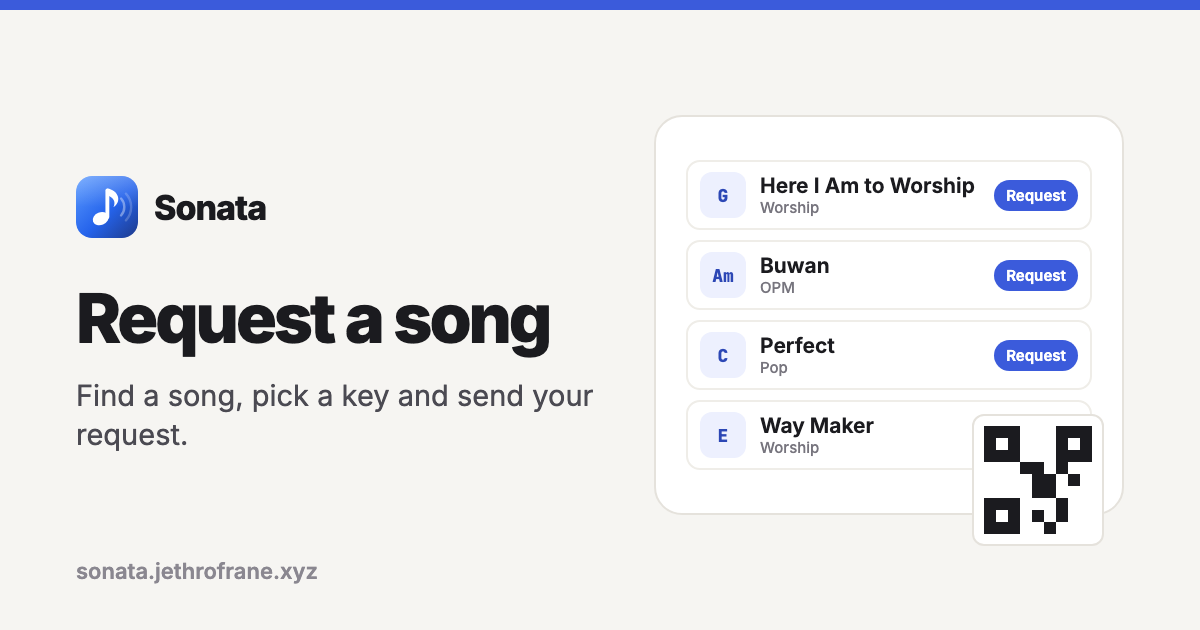
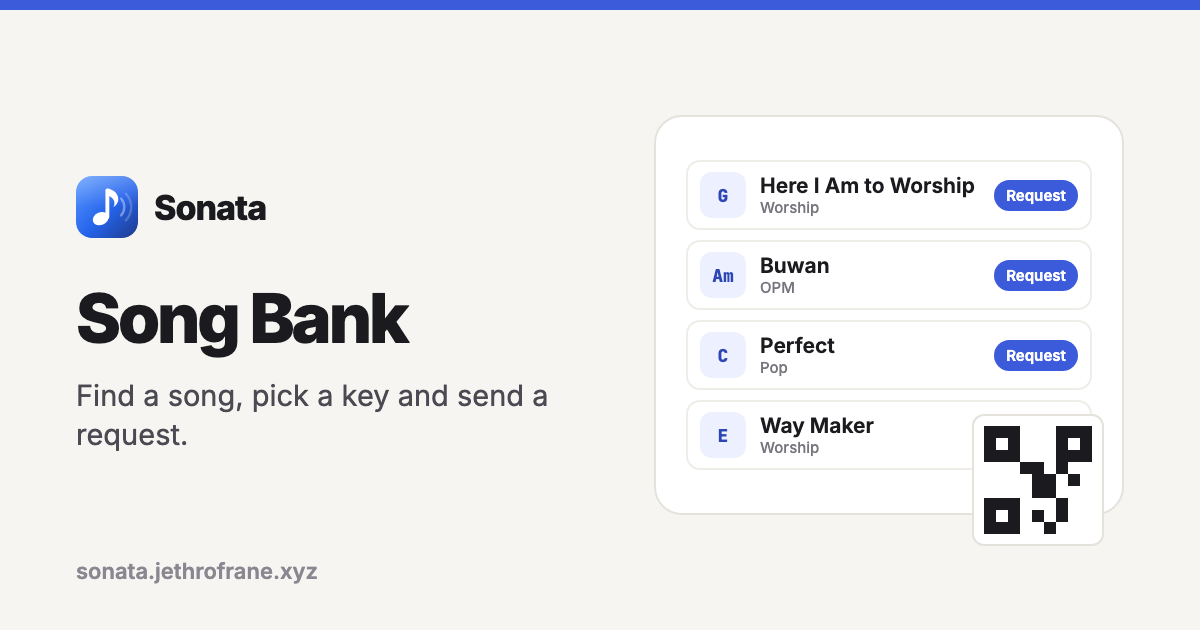
Song Bank: general wording (not busking-specific) across the app, previews and docs

Changed region(s): [[0.0617, 0.4524, 0.4625, 0.573], [0.4317, 0.6032, 0.4933, 0.6635]]

diff --git a/js/ui/bank.js b/js/ui/bank.js
@@ -1,5 +1,5 @@
 // @ts-check
-// Song bank. Musician side: choose songs, genres and how to be contacted, then publish one
+// Song Bank. Owner side: choose songs, genres and how to be contacted, then publish one
 // file to their own Google Drive. Listener side (/bank/<id>): search the list, read a chart in
 // any key, and send a request through the musician's chosen app. No Sonata server stores anything.
 import { $, esc, icon, openSheet, closeSheet, paintIcons, toast, copyText, download } from "./dom.js";
@@ -23,12 +23,12 @@ export const bankSongs = () => store.songs.filter((s) => s.inBank);
 /** Publish (or update) the public file in the musician's Drive. @returns {Promise<boolean>} */
 export async function publishBank() {
   const d = app.drive;
-  if (!d || !d.token) { toast(t("bankNeedsDrive", "Sign in with Google first. Your song list is shared from your own Drive."), "info", { ms: 6000, action: t("signIn", "Sign in"), onAction: () => d?.signIn() }); return false; }
-  if (!bankSongs().length) { toast(t("bankEmpty", "Add at least one song to your song bank first."), "error"); return false; }
+  if (!d || !d.token) { toast(t("bankNeedsDrive", "Sign in with Google first. Your Song Bank is shared from your own Drive."), "info", { ms: 6000, action: t("signIn", "Sign in"), onAction: () => d?.signIn() }); return false; }
+  if (!bankSongs().length) { toast(t("bankEmpty", "Add at least one song to your Song Bank first."), "error"); return false; }
   const file = buildBankFile(store.bank, store.songs, keyOf);
   const r = await d.publishBank(file, store.bank.fileId);
   if (!r.ok) {
-    toast(r.reason === "signin" ? t("reconnectText", "Your Google session expired. Reconnect to keep syncing.") : r.reason === "offline" ? t("offlineNote", "You're offline. Songs still save on this device.") : t("bankPublishFailed", "Couldn't publish the song list. Try again."), "error", { ms: 6000 });
+    toast(r.reason === "signin" ? t("reconnectText", "Your Google session expired. Reconnect to keep syncing.") : r.reason === "offline" ? t("offlineNote", "You're offline. Songs still save on this device.") : t("bankPublishFailed", "Couldn't publish your Song Bank. Try again."), "error", { ms: 6000 });
     return false;
   }
   store.bank = { ...store.bank, fileId: r.id, publishedAt: store.bank.publishedAt || new Date().toISOString(), updatedAt: new Date().toISOString() };
@@ -48,7 +48,7 @@ export function watchBank() {
   });
 }
 
-/** Song bank manager: profile, contacts, songs and sharing. */
+/** Song Bank manager: profile, contacts, songs and sharing. */
 export function openBankManager() {
   const all = store.songs.filter((s) => !s.readonly).slice().sort((a, b) => a.title.localeCompare(b.title, undefined, { sensitivity: "base", numeric: true }));
   const gl = genres(all.map((s) => ({ g: s.genre })));
@@ -67,15 +67,15 @@ export function openBankManager() {
           ${"share" in navigator ? `<button class="btn" type="button" id="bankShareNative">${icon("share")}${esc(t("shareNative", "Share…"))}</button>` : ""}
           <button class="btn" type="button" id="bankQr">${icon("qr")}${esc(t("qrPoster", "QR poster"))}</button>
           <button class="btn" type="button" id="bankPublish">${icon("refresh")}${esc(t("bankUpdate", "Update now"))}</button></div>`
-        : `<p class="card-text">${esc(t("bankIntro", "Share the songs you can play. People scan your QR, find a song, pick a key and send you a request. The list is one file in your own Google Drive; Sonata keeps no copy."))}</p>
-          <button class="btn primary wide" type="button" id="bankPublish">${icon("share")}${esc(t("bankPublishBtn", "Publish my song list ({n})", { n }))}</button>`}
+        : `<p class="card-text">${esc(t("bankIntro", "Share the songs you know or offer. Anyone can scan your QR, find a song, pick a key and send you a request. Your Song Bank is one file in your own Google Drive; Sonata keeps no copy."))}</p>
+          <button class="btn primary wide" type="button" id="bankPublish">${icon("share")}${esc(t("bankPublishBtn", "Publish my Song Bank ({n})", { n }))}</button>`}
       </div>
       <h3 class="group-title">${esc(t("bankProfile", "About you"))}</h3>
       <div class="field-row">
         <label class="field"><span>${esc(t("bankName", "Name or band"))}</span><input class="input" data-p="name" value="${esc(p.name)}" maxlength="80" placeholder="${esc(t("bankNamePh", "Your name"))}" autocomplete="name"></label>
-        <label class="field"><span>${esc(t("bankTitle", "List title"))}</span><input class="input" data-p="title" value="${esc(p.title)}" maxlength="80" placeholder="${esc(t("bankTitlePh", "Songs I can play tonight"))}"></label>
+        <label class="field"><span>${esc(t("bankTitle", "List title"))}</span><input class="input" data-p="title" value="${esc(p.title)}" maxlength="80" placeholder="${esc(t("bankTitlePh", "Songs I can play"))}"></label>
       </div>
-      <label class="field"><span>${esc(t("bankBio", "Short note"))}</span><textarea class="input" data-p="bio" rows="2" maxlength="400" placeholder="${esc(t("bankBioPh", "Acoustic covers, OPM and worship. Requests welcome!"))}">${esc(p.bio)}</textarea></label>
+      <label class="field"><span>${esc(t("bankBio", "Short note"))}</span><textarea class="input" data-p="bio" rows="2" maxlength="400" placeholder="${esc(t("bankBioPh", "OPM, pop and worship. Requests welcome!"))}">${esc(p.bio)}</textarea></label>
       <label class="switch-row"><span>${esc(t("bankCharts", "Let listeners see my charts"))}</span><input type="checkbox" class="toggle" data-p="charts"${p.charts ? " checked" : ""}></label>
       <h3 class="group-title">${esc(t("bankRequestsVia", "Send requests to"))}</h3>
       <p class="card-hint">${esc(t("bankContactsHint", "Fill in at least one. Requests open that app with the song already written."))}</p>
@@ -88,7 +88,7 @@ export function openBankManager() {
       ${p.fileId ? `<button class="btn ghost danger-text" type="button" id="bankUnpublish">${esc(t("bankStop", "Stop sharing"))}</button>` : ""}
     </div>`;
   };
-  const body = openSheet({ title: t("songBank", "Song bank"), wide: true, className: "bank-sheet", body: draw(), focus: false });
+  const body = openSheet({ title: t("songBank", "Song Bank"), wide: true, className: "bank-sheet", body: draw(), focus: false });
   const redraw = () => { body.innerHTML = draw(); paintIcons(body); };
   body.addEventListener("input", (e) => {
     const el = /** @type {HTMLInputElement} */ (e.target);
@@ -105,12 +105,12 @@ export function openBankManager() {
     const b = /** @type {HTMLElement|null} */ (/** @type {HTMLElement} */ (e.target).closest("button"));
     if (!b) return;
     if (b.id === "bankAll" || b.id === "bankNone") { const on = b.id === "bankAll"; for (const s of all) if (s.inBank !== on) store.update(s, { inBank: on }); redraw(); }
-    if (b.id === "bankPublish") { b.setAttribute("aria-busy", "true"); if (await publishBank()) { toast(t("bankPublished", "Song list is live"), "success"); redraw(); } else b.removeAttribute("aria-busy"); }
+    if (b.id === "bankPublish") { b.setAttribute("aria-busy", "true"); if (await publishBank()) { toast(t("bankPublished", "Your Song Bank is live"), "success"); redraw(); } else b.removeAttribute("aria-busy"); }
     if (b.id === "bankCopy") { if (await copyText(bankUrl(store.bank.fileId))) toast(t("linkCopied", "Link copied"), "success"); }
-    if (b.id === "bankShareNative") { try { await navigator.share({ title: store.bank.title || t("songBank", "Song bank"), text: t("bankShareText", "Request a song from my list:"), url: bankUrl(store.bank.fileId) }); } catch { /* cancelled */ } }
+    if (b.id === "bankShareNative") { try { await navigator.share({ title: store.bank.title || t("songBank", "Song Bank"), text: t("bankShareText", "Request a song from my list:"), url: bankUrl(store.bank.fileId) }); } catch { /* cancelled */ } }
     if (b.id === "bankQr") { b.setAttribute("aria-busy", "true"); try { await qrPoster(); } finally { b.removeAttribute("aria-busy"); } }
     if (b.id === "bankUnpublish") {
-      if (await app.drive?.unpublishBank(store.bank.fileId)) { store.bank = { ...store.bank, fileId: "", publishedAt: "" }; store.changed("settings"); toast(t("bankStopped", "Your song list is private again."), "info"); redraw(); }
+      if (await app.drive?.unpublishBank(store.bank.fileId)) { store.bank = { ...store.bank, fileId: "", publishedAt: "" }; store.changed("settings"); toast(t("bankStopped", "Your Song Bank is private again."), "info"); redraw(); }
       else toast(t("bankStopFailed", "Couldn't stop sharing. Check your connection and sign-in."), "error");
     }
   });
@@ -118,7 +118,7 @@ export function openBankManager() {
 
 function markDirty() { if (store.bank.fileId) { store.bankDirty = true; clearTimeout(republishTimer); republishTimer = setTimeout(() => { if (store.bankDirty) publishBank(); }, 15000); } }
 
-/** A printable QR poster for the tip jar or mic stand. */
+/** A printable QR poster (for a stand, a table, a church lobby or a classroom). */
 async function qrPoster() {
   const m = await loadQr();
   if (!m) return;
@@ -140,7 +140,7 @@ async function qrPoster() {
   g.fillText(t("posterSteps", "Scan · find a song · pick a key · send"), W / 2, y0 + size + 90);
   g.fillStyle = "#5f5d66"; g.font = "500 30px Inter, system-ui, sans-serif"; g.fillText(t("posterFoot", "{n} songs · made with Sonata", { n: bankSongs().length }), W / 2, y0 + size + 150);
   const blob = await new Promise((ok) => c.toBlob(ok, "image/png"));
-  if (blob) download("sonata-song-list-qr.png", /** @type {Blob} */ (blob));
+  if (blob) download("sonata-song-bank-qr.png", /** @type {Blob} */ (blob));
 }
 
 // ---------- Listener side ----------
@@ -153,7 +153,7 @@ const CACHE = (/** @type {string} */ id) => `sonata_bank_${id}`;
 export async function openBank(id) {
   if (view.id === id && view.data) { renderBank(); return; }
   Object.assign(view, { id, data: null, q: "", genre: "", picks: new Map(), error: "" });
-  if (!validBankId(id)) { view.error = t("bankBadLink", "This song list link is incomplete."); renderBank(); return; }
+  if (!validBankId(id)) { view.error = t("bankBadLink", "This Song Bank link is incomplete."); renderBank(); return; }
   try { const c = localStorage.getItem(CACHE(id)); if (c) view.data = parseBankFile(JSON.parse(c)); } catch { /* ignore */ }
   renderBank(true);
   try {
@@ -164,7 +164,7 @@ export async function openBank(id) {
     view.data = data;
     try { localStorage.setItem(CACHE(id), JSON.stringify(data)); } catch { /* full */ }
   } catch {
-    if (!view.data) view.error = navigator.onLine ? t("bankLoadFailed", "This song list isn't available. The musician may have stopped sharing it.") : t("bankOffline", "You're offline, and this song list hasn't been opened on this device before.");
+    if (!view.data) view.error = navigator.onLine ? t("bankLoadFailed", "This Song Bank isn't available. Its owner may have stopped sharing it.") : t("bankOffline", "You're offline, and this Song Bank hasn't been opened on this device before.");
   }
   if (view.id === id) renderBank();
 }
@@ -173,10 +173,10 @@ export async function openBank(id) {
 function renderBank(loading = false) {
   const host = $("bankBody");
   const d = view.data;
-  document.title = `${d?.title || t("songList", "Song list")} · Sonata`;
+  document.title = `${d?.title || t("songBankTitle", "Song Bank")} · Sonata`;
   if (!d) {
-    $("bankHeading").textContent = t("songList", "Song list");
-    host.innerHTML = loading ? `<p class="muted bank-loading">${esc(t("loading", "Loading…"))}</p>` : `<div class="empty"><div class="empty-art">${icon("music")}</div><h2>${esc(t("bankUnavailable", "Song list unavailable"))}</h2><p>${esc(view.error)}</p><div class="empty-actions"><button class="btn" type="button" data-bk="retry">${esc(t("tryAgain", "Try again"))}</button></div></div>`;
+    $("bankHeading").textContent = t("songBankTitle", "Song Bank");
+    host.innerHTML = loading ? `<p class="muted bank-loading">${esc(t("loading", "Loading…"))}</p>` : `<div class="empty"><div class="empty-art">${icon("music")}</div><h2>${esc(t("bankUnavailable", "Song Bank unavailable"))}</h2><p>${esc(view.error)}</p><div class="empty-actions"><button class="btn" type="button" data-bk="retry">${esc(t("tryAgain", "Try again"))}</button></div></div>`;
     paintIcons(host);
     return;
   }
@@ -195,7 +195,7 @@ function renderBank(loading = false) {
         <button type="button" class="row-main" data-bk="${s.b ? "view" : "pick"}"><span class="key-badge">${esc(s.k || "–")}</span><span class="row-text"><span class="row-title">${esc(s.t)}</span><span class="row-sub">${esc([s.a, s.g].filter(Boolean).join(" · "))}</span></span></button>
         <button type="button" class="btn small${picked ? " primary" : ""}" data-bk="pick" aria-pressed="${picked}">${picked ? icon("check") : icon("plus")}<span>${esc(picked ? t("picked", "Picked") : t("request", "Request"))}</span></button></div>`;
     }).join("") || `<p class="muted bank-none">${esc(t("noMatches", "No matches for \"{q}\"", { q: view.q || view.genre }))}</p>`}</div>
-    <p class="bank-foot">${esc(t("bankFoot", "Made with Sonata. Your request goes straight to the musician; Sonata doesn't see it."))} <a href="/songs">${esc(t("bankMakeOwn", "Make your own song list"))}</a></p>
+    <p class="bank-foot">${esc(t("bankFoot", "Made with Sonata. Your request goes straight to the owner of this Song Bank; Sonata doesn't see it."))} <a href="/songs">${esc(t("bankMakeOwn", "Make your own Song Bank"))}</a></p>
     <div class="bank-bar" ${view.picks.size ? "" : "hidden"}><span>${esc(t("pickedN", "{n} picked", { n: view.picks.size }))}</span><button type="button" class="btn primary" data-bk="send">${icon("send")}${esc(t("sendRequest", "Send request"))}</button></div>`;
   paintIcons(host);
   const input = /** @type {HTMLInputElement|null} */ (host.querySelector("#bankSearch"));
@@ -264,7 +264,7 @@ function requestSheet() {
         return `<li class="set-item"><span class="set-name">${esc(s.t)}</span><label class="sr-only" for="rk-${esc(id)}">${esc(t("key", "Key"))}</label><select class="select rq-key" id="rk-${esc(id)}" data-rk="${esc(id)}">${KEYS12.map((k) => { const v = pretty(k) + (minor ? "m" : ""); return `<option${v === key ? " selected" : ""}>${esc(v)}</option>`; }).join("")}</select>
         <button class="icon-btn small" type="button" data-drop="${esc(id)}" aria-label="${esc(t("remove", "Remove"))}">${icon("x")}</button></li>`; }).join("")}</ul>
       <label class="field"><span>${esc(t("yourName", "Your name (optional)"))}</span><input class="input" id="rqFrom" maxlength="60" autocomplete="given-name"></label>
-      <label class="field"><span>${esc(t("rqNote", "Note (optional)"))}</span><textarea class="input" id="rqNote" rows="2" maxlength="300" placeholder="${esc(t("rqNotePh", "Dedication, table number…"))}"></textarea></label>
+      <label class="field"><span>${esc(t("rqNote", "Note (optional)"))}</span><textarea class="input" id="rqNote" rows="2" maxlength="300" placeholder="${esc(t("rqNotePh", "Dedication, occasion, anything to add…"))}"></textarea></label>
       <p class="mini-label">${esc(t("sendWith", "Send with"))}</p>
       <div class="rq-targets">${targets.map((x) => `<button class="btn${targets[0] === x ? " primary" : ""}" type="button" data-go="${x.kind}">${esc(x.label)}</button>`).join("")}
         ${"share" in navigator ? `<button class="btn" type="button" data-go="share">${icon("share")}${esc(t("shareNative", "Share…"))}</button>` : ""}

diff --git a/js/ui/library.js b/js/ui/library.js
@@ -119,7 +119,7 @@ function songMenu(id) {
       <button type="button" class="menu-item" data-m="present">${icon("present")}<span>${esc(t("present", "Present"))}</span></button>
       <button type="button" class="menu-item" data-m="share">${icon("share")}<span>${esc(t("share", "Share"))}</span></button>
       <button type="button" class="menu-item" data-m="dup">${icon("duplicate")}<span>${esc(t("duplicate", "Duplicate"))}</span></button>
-      <button type="button" class="menu-item" data-m="bank">${icon("bank")}<span>${esc(s.inBank ? t("removeFromBank", "Remove from song bank") : t("addToBank", "Add to song bank"))}</span></button>
+      <button type="button" class="menu-item" data-m="bank">${icon("bank")}<span>${esc(s.inBank ? t("removeFromBank", "Remove from Song Bank") : t("addToBank", "Add to Song Bank"))}</span></button>
       <button type="button" class="menu-item danger" data-m="del">${icon("trash")}<span>${esc(t("delete", "Delete"))}</span></button>
     </div>`
   });
@@ -131,7 +131,7 @@ function songMenu(id) {
     if (m === "present") { store.exitSetlist(); store.open(id); app.openStage(); }
     if (m === "share") { store.open(id); openShare(); }
     if (m === "dup") { store.duplicate(s); app.show("editor"); }
-    if (m === "bank") { store.update(s, { inBank: !s.inBank }); renderLibrary(); toast(s.inBank ? t("addedToBank", "Added to your song bank") : t("removedFromBank", "Removed from your song bank"), "success"); }
+    if (m === "bank") { store.update(s, { inBank: !s.inBank }); renderLibrary(); toast(s.inBank ? t("addedToBank", "Added to your Song Bank") : t("removedFromBank", "Removed from your Song Bank"), "success"); }
     if (m === "del") deleteWithUndo([id]);
   });
 }
@@ -210,7 +210,7 @@ export function renderLibrary() {
   if (filter === "setlists") {
     const sets = store.setlists.filter((s) => !q || fold(s.title).includes(q));
     if (!store.setlists.length) {
-      list.innerHTML = empty(t("emptySetlistsTitle", "No setlists yet"), t("emptySetlistsText", "Group songs for Sunday or a gig, then play them in order on stage."), `<button class="btn primary" type="button" data-act="create-set">${icon("plus")}${esc(t("createSetlist", "Create a setlist"))}</button>`);
+      list.innerHTML = empty(t("emptySetlistsTitle", "No setlists yet"), t("emptySetlistsText", "Group songs for a service, a rehearsal or an event, then play them in order on stage."), `<button class="btn primary" type="button" data-act="create-set">${icon("plus")}${esc(t("createSetlist", "Create a setlist"))}</button>`);
       return;
     }
     list.innerHTML = sets.map((s) => {
@@ -254,10 +254,10 @@ export function renderLibrary() {
     </div>`;
     return;
   }
-  // Song bank: a card to manage and share it sits above its songs.
-  const bankCard = filter === "bank" ? `<div class="bank-card"><div><b>${esc(store.bank.fileId ? t("bankIsLive", "Your song list is live") : t("songBank", "Song bank"))}</b><p class="muted">${esc(store.bank.fileId ? t("bankLiveSub", "{n} songs · people scan your QR to request", { n: store.songs.filter((x) => x.inBank).length }) : t("bankPitch", "List the songs you can play. People scan your QR, pick a song and key, and send you a request."))}</p></div><button class="btn primary" type="button" data-act="bank">${icon(store.bank.fileId ? "share" : "bank")}${esc(store.bank.fileId ? t("manageShare", "Manage & share") : t("setUpBank", "Set up"))}</button></div>` : "";
+  // Song Bank: a card to manage and share it sits above its songs.
+  const bankCard = filter === "bank" ? `<div class="bank-card"><div><b>${esc(store.bank.fileId ? t("bankIsLive", "Your Song Bank is live") : t("songBank", "Song Bank"))}</b><p class="muted">${esc(store.bank.fileId ? t("bankLiveSub", "{n} songs · people scan your QR to request", { n: store.songs.filter((x) => x.inBank).length }) : t("bankPitch", "List the songs you know or offer. People scan your QR, pick a song and key, and send you a request."))}</p></div><button class="btn primary" type="button" data-act="bank">${icon(store.bank.fileId ? "share" : "bank")}${esc(store.bank.fileId ? t("manageShare", "Manage & share") : t("setUpBank", "Set up"))}</button></div>` : "";
   if (!songs.length) {
-    if (filter === "bank") { list.innerHTML = bankCard + empty(t("songBank", "Song bank"), t("bankNoSongs", "No songs in your song bank yet. Open Set up, or use a song's ⋮ menu → Add to song bank."), ""); paintIcons(list); return; }
+    if (filter === "bank") { list.innerHTML = bankCard + empty(t("songBank", "Song Bank"), t("bankNoSongs", "No songs in your Song Bank yet. Open Set up, or use a song's ⋮ menu → Add to Song Bank."), ""); paintIcons(list); return; }
     list.innerHTML = q
       ? empty(t("noMatches", "No matches for \"{q}\"", { q: query }), "", `<button class="btn" type="button" data-act="clear">${esc(t("clearSearch", "Clear search"))}</button>`)
       : empty(t("filterFavorites", "Favorites"), t("noFavorites", "No favorites yet. Tap the star on a song."), `<button class="btn" type="button" data-act="all">${esc(t("showAllSongs", "Show all songs"))}</button>`);

diff --git a/js/ui/i18n.js b/js/ui/i18n.js
@@ -38,21 +38,22 @@ const FIL = {
   leftHand: "Kaliwang kamay",
   rightHand: "kanang kamay",
   addFromLinks: "Idagdag mula sa links",
-  filterBank: "Song bank",
-  songBank: "Song bank",
+  filterBank: "Song Bank",
+  songBank: "Song Bank",
+  songBankTitle: "Song Bank",
   songLinks: "Song links",
   songLinksCopied: "Nakopya ang mensahe ng setlist. I-paste sa group chat ninyo.",
-  addToBank: "Idagdag sa song bank",
-  removeFromBank: "Alisin sa song bank",
-  inMyBank: "Nasa song bank ko",
+  addToBank: "Idagdag sa Song Bank",
+  removeFromBank: "Alisin sa Song Bank",
+  inMyBank: "Nasa Song Bank ko",
   genre: "Genre",
   request: "I-request",
   picked: "Napili",
   sendRequest: "Ipadala ang request",
   yourName: "Pangalan mo (opsyonal)",
   sendWith: "Ipadala gamit ang",
-  bankIntro: "Ibahagi ang mga kantang kaya mong tugtugin. I-scan nila ang QR mo, hahanap ng kanta, pipili ng key at magpapadala ng request. Isang file lang ito sa sarili mong Google Drive; walang kopya ang Sonata.",
-  bankPublishBtn: "I-publish ang song list ko ({n})",
+  bankIntro: "Ibahagi ang mga kantang alam o iniaalok mo. I-scan nila ang QR mo, hahanap ng kanta, pipili ng key at magpapadala ng request. Isang file lang ang Song Bank mo sa sarili mong Google Drive; walang kopya ang Sonata.",
+  bankPublishBtn: "I-publish ang Song Bank ko ({n})",
   bankLive: "Live na: makikita ng may link o QR ang {n} kanta.",
   posterTitle: "Mag-request ng kanta",
   openYoutube: "Buksan sa YouTube",
@@ -215,7 +216,7 @@ const FIL = {
   clearSearch: "Burahin ang hinahanap",
   noFavorites: "Wala pang paborito. I-tap ang bituin sa isang kanta.",
   emptySetlistsTitle: "Wala pang setlist",
-  emptySetlistsText: "Pagsama-samahin ang mga kanta para sa Linggo o sa gig, at tugtugin nang sunod-sunod sa stage.",
+  emptySetlistsText: "Pagsama-samahin ang mga kanta para sa service, rehearsal o event, at tugtugin nang sunod-sunod sa stage.",
   createSetlist: "Gumawa ng setlist",
   open: "Buksan",
   duplicate: "Doblehin",

diff --git a/js/ui/sheets.js b/js/ui/sheets.js
@@ -136,7 +136,7 @@ export function openDetails() {
       <div class="field-row">
         <label class="field"><span>${esc(t("genre", "Genre"))}</span><input class="input" id="dGenre" value="${esc(s.genre)}" maxlength="40" list="dGenres" autocomplete="off" placeholder="OPM, Worship, Pop…">
           <datalist id="dGenres">${[...new Set(store.songs.map((x) => x.genre).filter(Boolean))].map((g) => `<option value="${esc(g)}">`).join("")}</datalist></label>
-        <label class="switch-row d-bank"><span>${esc(t("inMyBank", "In my song bank"))}</span><input type="checkbox" class="toggle" id="dInBank"${s.inBank ? " checked" : ""}></label>
+        <label class="switch-row d-bank"><span>${esc(t("inMyBank", "In my Song Bank"))}</span><input type="checkbox" class="toggle" id="dInBank"${s.inBank ? " checked" : ""}></label>
       </div>
       <label class="field"><span>${esc(t("notes", "Notes"))}</span><textarea class="input" id="dNotes" rows="3">${esc(s.description)}</textarea></label>
       <div class="field"><span>${esc(t("links", "Links"))}</span><div id="dLinks">${linkRows(links)}</div>
@@ -533,7 +533,7 @@ export async function openAbout() {
         <li>Free, no account needed. Songs are saved on your device.</li>
         <li>Works offline after the first visit. Install it for the stage.</li>
         <li>Optional Google Drive backup uses one file only Sonata can see.</li>
-        <li>A song bank is shared only when you publish it: one file in your own Drive that anyone with its link can read. Sonata stores no copy.</li>
+        <li>A Song Bank is shared only when you publish it: one file in your own Drive that anyone with its link can read. Sonata stores no copy.</li>
         <li>No ads. Anonymous page-view counts only (Vercel Web Analytics, no cookies).</li>
       </ul>
       <p class="verse">“So whether you eat or drink or whatever you do, do it all for the glory of God.” <span>1 Corinthians 10:31</span></p>

diff --git a/api/page.js b/api/page.js
@@ -1,6 +1,6 @@
 // Serves index.html for every app route (/song/…, /play/piano, /share/…, /q/…, /chords/…, /bank/…)
 // with per-page link-preview tags and images. Shared links get the song's own title; a song bank
-// link gets the musician's list name and size (read from their Drive at request time, not stored).
+// link gets the Song Bank's name and size (read from their Drive at request time, not stored).
 import fs from "node:fs";
 import path from "node:path";
 import zlib from "node:zlib";
@@ -84,14 +84,14 @@ async function describe(route, query) {
   if (query.s) { const info = sharedInfo(decodeShare(query.s)); if (info) return info; }
   if (seg[0] === "q" && rawSeg[1]) { const info = sharedInfo(decodeQr(rawSeg[1])); if (info) return info; }
   if (seg[0] === "bank" && rawSeg[1]) {
-    // A musician's public song list: name and size, read from their Drive (not stored here).
+    // A public Song Bank: name and size, read from their Drive (not stored here).
     const r = await Promise.race([loadBank(rawSeg[1]), new Promise((ok) => setTimeout(() => ok({ status: 504 }), 2500))]);
     if (r.status === 200) {
       const b = r.bank;
       const gs = [...new Set(b.songs.map((x) => x.g).filter(Boolean))].slice(0, 4).join(", ");
       return { title: clip(b.title, 70), desc: `${b.songs.length} songs${gs ? ` · ${gs}` : ""}${b.name ? ` · ${clip(b.name, 40)}` : ""}. Find a song and send a request with Sonata.`, robots: true, image: og("bank") };
     }
-    return { title: "Song list", desc: "A musician's song list on Sonata. Find a song and send a request.", robots: true, image: og("bank") };
+    return { title: "Song Bank", desc: "A Song Bank on Sonata. Find a song, pick a key and send a request.", robots: true, image: og("bank") };
   }
   if (seg[0] === "chords") {
     const name = chordFromPath(rawSeg[1]);

diff --git a/js/core/bank.js b/js/core/bank.js
@@ -1,5 +1,6 @@
 // @ts-check
-// Song bank: a musician's public list of songs they can play, for requests.
+// Song Bank: anyone's public list of songs they know or offer (a singer, band, worship team,
+// teacher or choir), so others can find a song, pick a key and send a request.
 // The bank lives as one JSON file in the musician's own Google Drive, shared
 // "anyone with the link can view". Sonata keeps no copy on any server.
 // Pure functions (no DOM, no network) so they are unit-tested.
@@ -73,7 +74,7 @@ export function buildBankFile(profile, songs, keyOf) {
     .sort((a, b) => a.t.localeCompare(b.t, undefined, { sensitivity: "base", numeric: true }));
   return {
     type: BANK_TYPE, v: BANK_VERSION,
-    title: profile.title || (profile.name ? `${profile.name}'s songs` : "Song list"),
+    title: profile.title || (profile.name ? `${profile.name}'s Song Bank` : "Song Bank"),
     name: profile.name, bio: profile.bio, contacts: profile.contacts,
     updatedAt: new Date().toISOString(),
     songs: list
@@ -95,7 +96,7 @@ export function parseBankFile(d) {
     if (typeof s.b === "string" && s.b) o.b = s.b.slice(0, 20000);
     return o;
   });
-  return { type: BANK_TYPE, v: Number(d.v) || 1, title: str(d.title, 80) || "Song list", name: str(d.name, 80), bio: str(d.bio, 400), contacts: normalizeContacts(d.contacts), updatedAt: str(d.updatedAt, 40), songs };
+  return { type: BANK_TYPE, v: Number(d.v) || 1, title: str(d.title, 80) || "Song Bank", name: str(d.name, 80), bio: str(d.bio, 400), contacts: normalizeContacts(d.contacts), updatedAt: str(d.updatedAt, 40), songs };
 }
 
 /** Genres in a bank, most used first. @param {{ g: string }[]} songs */

diff --git a/js/router.js b/js/router.js
@@ -1,7 +1,7 @@
 // @ts-check
 // Pure URL helpers: every section, song, stage and instrument has its own path.
 //   /songs  /chords  /chords/<chord>  /theory  /play  /play/piano|guitar|tuner|metronome   (old /tools links open the chart)
-//   /bank/<drive file id>   a musician's public song list      /q/<CODE>   a song or setlist from a QR code
+//   /bank/<drive file id>   a public Song Bank      /q/<CODE>   a song or setlist from a QR code
 //   /song/<slug>  /song/<slug>/stage  /song/<slug>/play/piano
 // A song's slug is its title plus the tail of its id. The tail is what we look
 // up, so a link keeps working after the song is renamed.
@@ -74,6 +74,6 @@ export const PAGE_META = {
   editor: ["Chart editor", "Write and transpose a chord chart."],
   theory: ["Circle of fifths", "Explore keys and the chords that belong to them."],
   chords: ["Chords", "Any chord on guitar, ukulele, bass and piano."],
-  bank: ["Song list", "A musician's song list. Find a song and send a request."],
+  bank: ["Song Bank", "Find a song, pick a key and send a request."],
   play: ["Play", "Piano, fretboard, tuner and metronome."]
 };

diff --git a/index.html b/index.html
@@ -93,7 +93,7 @@
               <button type="button" data-filter="all" class="active" data-i18n="filterAll">All</button>
               <button type="button" data-filter="favorites" data-i18n="filterFavorites">Favorites</button>
               <button type="button" data-filter="setlists" data-i18n="filterSetlists">Setlists</button>
-              <button type="button" data-filter="bank" data-i18n="filterBank">Song bank</button>
+              <button type="button" data-filter="bank" data-i18n="filterBank">Song Bank</button>
             </div>
             <select class="select" id="librarySort" aria-label="Sort" data-i18n-attr="aria-label:sort">
               <option value="recent" data-i18n="sortRecent">Recent</option>
@@ -265,7 +265,7 @@
       <section class="view" id="view-bank" data-view-panel="bank" aria-labelledby="bankHeading">
         <div class="page">
           <header class="bank-hero" id="bankHero">
-            <h1 id="bankHeading">Song list</h1>
+            <h1 id="bankHeading">Song Bank</h1>
           </header>
           <div id="bankBody" aria-live="polite"></div>
         </div>

diff --git a/api/bank.js b/api/bank.js
@@ -48,7 +48,7 @@ export default async function handler(req, res) {
   const out = await loadBank(String(url.searchParams.get("id") || ""));
   res.setHeader("Content-Type", "application/json; charset=utf-8");
   res.setHeader("X-Robots-Tag", "noindex");
-  // A short shared cache: many listeners scanning the same QR at a gig make one Drive request a minute.
+  // A short shared cache: many people scanning the same QR at once make one Drive request a minute.
   res.setHeader("Cache-Control", out.status === 200 ? "public, max-age=30, s-maxage=60, stale-while-revalidate=300" : "no-store");
   res.status(out.status).send(JSON.stringify(out.status === 200 ? out.bank : { error: out.error }));
 }

diff --git a/js/ui/sheets-lazy.js b/js/ui/sheets-lazy.js
@@ -31,7 +31,7 @@ export const openSettings = () => call("openSettings", []);
 export const loadQr = () => chunk(() => import("../lib/qr.js"));
 /** Chords screen and chord pop-ups. */
 export const chordsModule = () => chunk(() => import("./chords.js"));
-/** Song bank: manager and public page. */
+/** Song Bank: manager and public page. */
 export const bankModule = () => chunk(() => import("./bank.js"));
 /** @param {string} name */ export const openChordSheet = async (name) => (await chordsModule())?.openChordSheet(name);
 export const openBankManager = async () => (await bankModule())?.openBankManager();

diff --git a/js/main.js b/js/main.js
@@ -121,7 +121,7 @@ async function showChords(chord) {
   syncUrl("replace");
 }
 
-/** Load and open a musician's public song list. @param {string} id */
+/** Load and open a public Song Bank. @param {string} id */
 async function showBank(id) {
   lazy.bankId = id;
   if (!lazy.bank) { lazy.bank = await bankModule(); if (!lazy.bank) return; lazy.bank.initBank(); }

diff --git a/docs/audit-v4.0.0.md b/docs/audit-v4.0.0.md
@@ -1,6 +1,6 @@
 # Sonata v4.0.0 (2026-11-09): features, fixes and re-audit
 
-Builds on v3.2.0 (`docs/audit-v3.2.0.md`). Goal from Jethro: smaller QR codes and links, link previews for every page, many more chord types (slash chords included), a chord dictionary with diagrams for guitar, ukulele, bass and piano, better PNG/PDF export, a way to share long setlists, a YouTube player, and a song bank for requests. All of it storage-free: no Sonata database.
+Builds on v3.2.0 (`docs/audit-v3.2.0.md`). Goal from Jethro: smaller QR codes and links, link previews for every page, many more chord types (slash chords included), a chord dictionary with diagrams for guitar, ukulele, bass and piano, better PNG/PDF export, a way to share long setlists, a YouTube player, and a Song Bank for requests. All of it storage-free: no Sonata database.
 
 ## Architecture decisions
 
@@ -8,10 +8,10 @@ Builds on v3.2.0 (`docs/audit-v3.2.0.md`). Goal from Jethro: smaller QR codes an
 |---|---|---|
 | Short links / small QR | Song stays inside the link. QR codes carry an upper-case form (`/Q/<base32>`) that uses the QR *alphanumeric* mode; error correction L on screens. | A server-stored short link would break the no-storage rule. Measured: a full song's QR goes from 101×101 to 81×81 modules (−36 % area). Packing the data differently saved only 3–8 % (deflate already does that work), so the text link is about the same length. Link previews make the link length matter much less in chat apps. |
 | Long setlists | "Song links": one link per song in a message with a `Setlist:` title line. "Add from links" (Songs) reads any pasted text, rebuilds songs and the setlist, and skips songs already saved. | Each link stays small; works in any chat app; no storage. |
-| Song bank | One JSON file (`sonata_songbank.json`) in the musician's own Drive, shared "anyone with the link can view". `/api/bank` reads it per request (60 s CDN cache) and only passes files whose `type` is `sonata-bank`. Requests open the musician's WhatsApp / Messenger / SMS / Telegram / email with the text filled in. | Fits "powered by Google Drive only". The library file is never shared (tested). |
+| Song Bank | One JSON file (`sonata_songbank.json`) in the owner's own Drive, shared "anyone with the link can view". `/api/bank` reads it per request (60 s CDN cache) and only passes files whose `type` is `sonata-bank`. Requests open the owner's WhatsApp / Messenger / SMS / Telegram / email with the text filled in. | Fits "powered by Google Drive only". The library file is never shared (tested). |
 | New fields | `genre` and `inBank` live on each song (synced by the existing merge, untouched). The bank profile lives in its own storage key and in the bank file (restored on a new device). | No change to the Drive merge/tombstone logic. Fingerprint treats empty new fields as unchanged, so existing users don't re-upload (bug caught by the regression suite). |
 | Chord shapes | `js/core/chords.js`: 33 chord types, a search over fret positions (≤ 4 fingers, barre = 1, 4-fret stretch, bass note lowest, chord tones present), scored for playability, with the chord-book shape for ~70 common chords first. | Unit-tested: every shape plays only chord tones with the right bass. |
-| Size | Chords and Song bank screens load on first use (7.5 KB and 6.7 KB gzipped). Main bundle 47 → 54 KB gzipped (shared helpers). Preview images are not in the offline cache. | |
+| Size | Chords and Song Bank screens load on first use (7.5 KB and 6.7 KB gzipped). Main bundle 47 → 54 KB gzipped (shared helpers). Preview images are not in the offline cache. | |
 
 ## Bugs found and fixed in this round
 
@@ -19,7 +19,7 @@ Builds on v3.2.0 (`docs/audit-v3.2.0.md`). Goal from Jethro: smaller QR codes an
 |---|---|---|---|---|
 | 1 | **High** | **QR codes made by Sonata couldn't be read.** The encoder looked up its error-correction table with the format bits (M=0, L=1…) instead of the table order (L, M, Q, H), so the code said "M" but was built as "L". An independent decoder (jsQR) failed on every code from the v3.1.2 encoder. | Correct index. | unit: all 4 levels × byte and alphanumeric decode; browser: on-screen QR decodes and opens the song |
 | 2 | Medium | Existing Drive users would upload their whole library once after updating (new empty fields changed the fingerprint). | Fingerprint ignores default-valued new fields. | regression "identical library is not uploaded again" + unit |
-| 3 | Medium | Song bank dialog didn't show the link after publishing (stale profile copy). | Redraw reads the current profile. | features |
+| 3 | Medium | Song Bank dialog didn't show the link after publishing (stale profile copy). | Redraw reads the current profile. | features |
 | 4 | Medium | "Request in this key" opened the request dialog and closed it at once. | Action keeps the new sheet. | features |
 | 5 | Medium | PNG export used a font Sonata doesn't ship (fell back to system fonts) and multi-column PNGs could split a chord line from its lyric. | Inter / JetBrains Mono (loaded first); column breaks respect chord+lyric pairs. | features (PNG download) |
 | 6 | Low | PDFs uncompressed. | Flate-compressed streams: 46 % (1 song) and 38 % (5 songs) of the old size. | unit: valid xref offsets, streams inflate back |
@@ -35,7 +35,7 @@ Builds on v3.2.0 (`docs/audit-v3.2.0.md`). Goal from Jethro: smaller QR codes an
 
 ## Needs Jethro (can't be verified here)
 
-1. Publish a song bank with your Google account on the live site, open the link on another phone, send a request. (The public-file download path from Google is tested only with a fake Drive; if Google ever blocks it, adding a `GOOGLE_API_KEY` env var in Vercel makes `/api/bank` use the Drive API instead.)
+1. Publish a Song Bank with your Google account on the live site, open the link on another phone, send a request. (The public-file download path from Google is tested only with a fake Drive; if Google ever blocks it, adding a `GOOGLE_API_KEY` env var in Vercel makes `/api/bank` use the Drive API instead.)
 2. Scan a QR from the Share sheet and from a printed PNG with an iPhone and an Android camera.
 3. YouTube playback inside Sonata on iPhone/Android.
 4. Paste a shared link into Messenger/WhatsApp/Viber and check the preview card and image.
